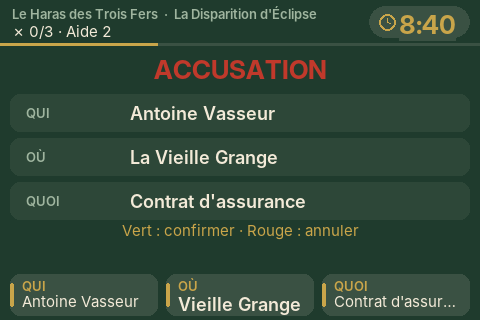
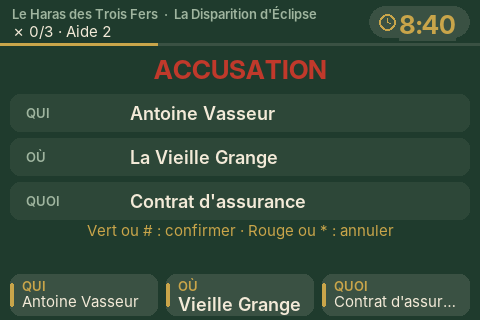
Écran : les touches # et * du clavier rappelées partout où vert et rouge servent
Claude-Session: https://claude.ai/code/session_01EFioQgckwzuG5fyWH251Fr

Changed region(s): [[0.3438, 0.6875, 0.8125, 0.75], [0.1875, 0.6875, 0.3125, 0.75]]

diff --git a/pupitre-des-enigmes/firmware/lib/moteur/src/moteur.cpp b/pupitre-des-enigmes/firmware/lib/moteur/src/moteur.cpp
@@ -302,7 +302,7 @@ void Moteur::lancerMission(bool reprise) {
   phase_ = Phase::ROLES;
   vue_.ecran = Vue::ROLES;
   vue_.titre = "GLISSEZ VOS CARTES RÔLE";
-  vue_.info = "Rôles arrivés : 0 / " + std::to_string(script_["roles"].as<JsonObjectConst>().size()) + " · Vert : commencer";
+  vue_.info = "Rôles arrivés : 0 / " + std::to_string(script_["roles"].as<JsonObjectConst>().size()) + " · Vert ou # : commencer";
   rafraichir();
   JsonVariantConst demande = script_["roles_demande"];
   if (!demande.isNull()) ajouterInterne(Action::de(Action::DIRE, dossierVoix_, demande.as<int>()));
@@ -500,7 +500,7 @@ void Moteur::carteHorsJeu(Zone zone, const std::string& id) {
   if (phase_ != Phase::ROLES || typeCarte(id) != "role") return;
   if (rolesPresents_.insert(id).second) {
     vue_.info = "Rôles arrivés : " + std::to_string(rolesPresents_.size()) + " / " +
-                std::to_string(script_["roles"].as<JsonObjectConst>().size()) + " · Vert : commencer";
+                std::to_string(script_["roles"].as<JsonObjectConst>().size()) + " · Vert ou # : commencer";
     flashZone_[zone] = maintenant() + 500;
     couleurZone_[zone] = 0x00ff00;
     p_.jouer(DOSSIER_SONS_PUPITRE, 2, false);
@@ -846,7 +846,7 @@ void Moteur::enrolement(const std::string& uid) {
   vue_.titre = "ENREGISTRER LES CARTES · " + vue_.monde;
   vue_.texte = "Glissez la carte " + id + "\n" + nomCarte(id);
   vue_.bandeau = std::to_string(enroleIndex_ + 1) + " / " + std::to_string(aEnroler_.size());
-  if (uid.empty()) vue_.info = "Rouge : passer cette carte · Vert : terminer et enregistrer";
+  if (uid.empty()) vue_.info = "Rouge ou * : passer · Vert ou # : terminer et enregistrer";
   rafraichir();
 }
 
@@ -950,7 +950,7 @@ void Moteur::ouvrirReglages() {
   vue_.texte.clear();
   vue_.bandeau.clear();
   vue_.info = "Molette : régler · Appui : ligne suivante";
-  vue_.compteurs = "Vert : enregistrer · Rouge : annuler";
+  vue_.compteurs = "Vert ou # : enregistrer · Rouge ou * : annuler";
   vue_.versionEntete++;
   vueReglages();
 }
@@ -2310,7 +2310,7 @@ void Moteur::accuser() {
   accusationOuverte_ = true;
   vue_.ecran = Vue::ACCUSATION;
   vue_.titre = texte(a["titre"], "ACCUSATION");
-  vue_.texte = "Vert : confirmer · Rouge : annuler";
+  vue_.texte = materiel("clavier") ? "Vert ou # : confirmer · Rouge ou * : annuler" : "Vert : confirmer · Rouge : annuler";
   majZones();
   p_.jouer(dossierVoix_, voix["demande"].as<int>(), false);
 }
@@ -2386,7 +2386,7 @@ void Moteur::enregistrerScore() {
   vue_.info.clear();
   vue_.texte = (victoire_ && !rang.empty() ? rang + "\n" : "") + ligne;
   if (!script_["soupcon"].isNull()) vue_.texte += "\nSoupçon : " + std::to_string(compteur("soupcon"));
-  vue_.bandeau = "Vert : retour à l'accueil";
+  vue_.bandeau = "Vert ou # : retour à l'accueil";
   rafraichir();
   if (!victoire_) return;
   JsonDocument scores;
